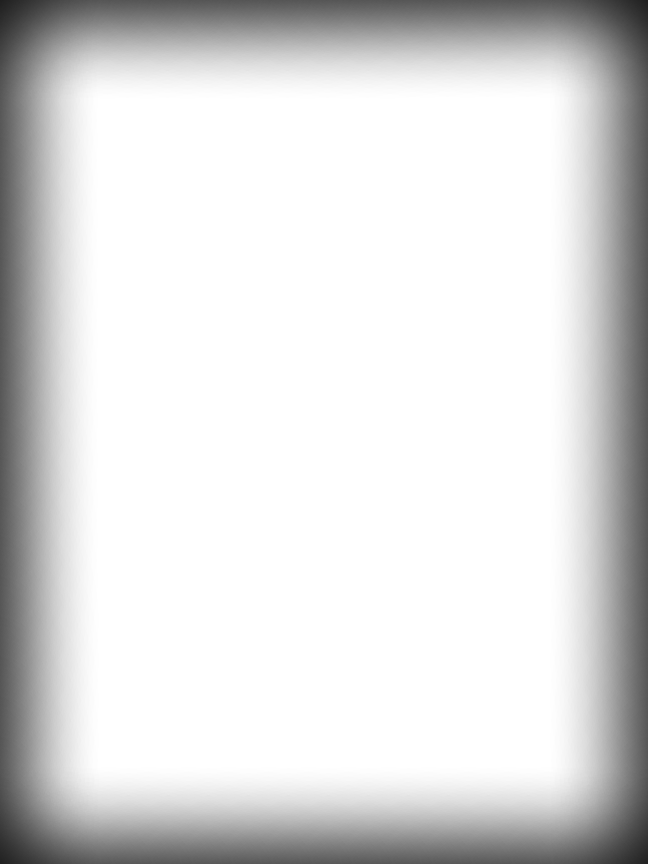
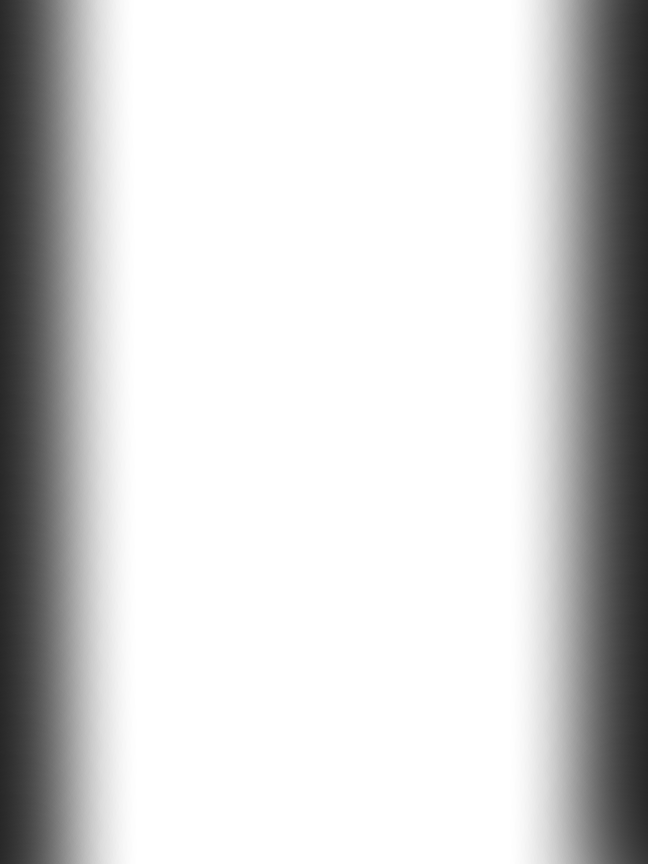
fix dumbass bug, add indicators, update visual

diff --git a/game.js b/game.js
@@ -178,7 +178,6 @@ function draw() {
     //performance.mark("drawbegan");
     gpctx.drawImage(spriteImages.ui[Level.areas[Level.activeArea].bg], 0, bgScroll - Global.BOARD_HEIGHT);
     gpctx.drawImage(spriteImages.ui[Level.areas[Level.activeArea].bg], 0, bgScroll);
-    gpctx.drawImage(spriteImages.ui.vignette, 0, 0);
 
     const bombBlastOpacity = Player.bombRadius < 0 ? 1 : -Player.bombRadius / 1050 + 1;
     gpctx.fillStyle = `rgba(255, 255, 255, ${0.5 * bombBlastOpacity})`;
@@ -206,6 +205,14 @@ function draw() {
 
     for (const i of Enemy.enemies)
         drawEnemy(i);
+
+    gpctx.drawImage(spriteImages.ui.vignette, 0, 0);
+
+    for (const i of Enemy.enemies) {
+        const indicator = spriteImages.ui.indicator;
+        const offset = (i.lifetime*i.lifetime*i.lifetime)/5000000 - (3*i.lifetime*i.lifetime)/10000 + (3*i.lifetime)/20 - 5; // arcane polynomial
+        gpctx.drawImage(indicator, Math.floor(i.x - indicator.width / 2), Global.BOARD_HEIGHT - Math.min(20, offset));
+    }
 
     //console.log(`draw took ${performance.measure("drawlength", "drawbegan").duration.toFixed(1)}ms`);
     // sep 4 2024 (0.1.0a v18): 0.5-12.7ms per draw on personal machine during normal gameplay (battery saving mode used)
